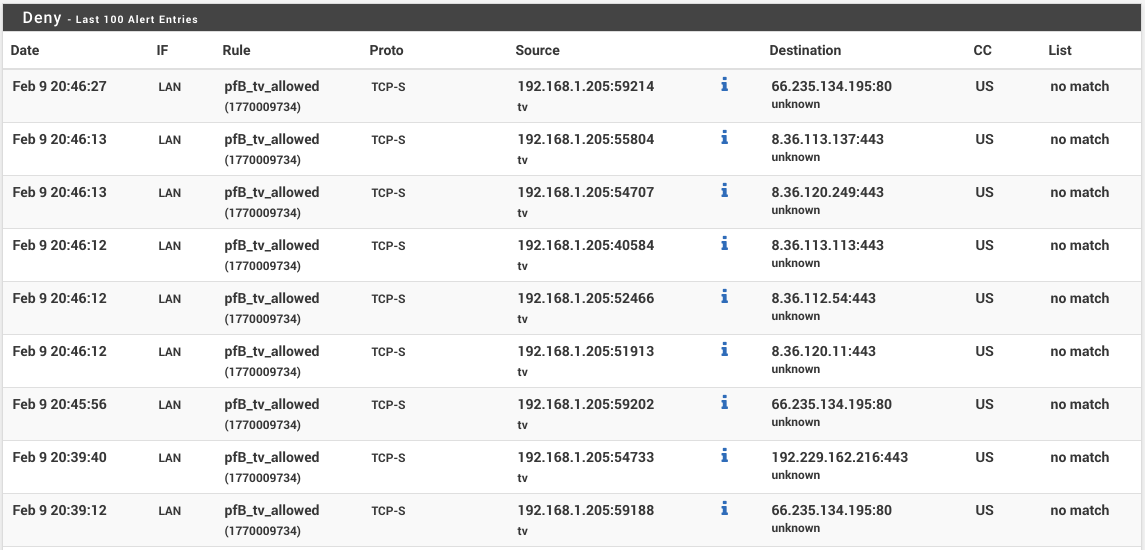
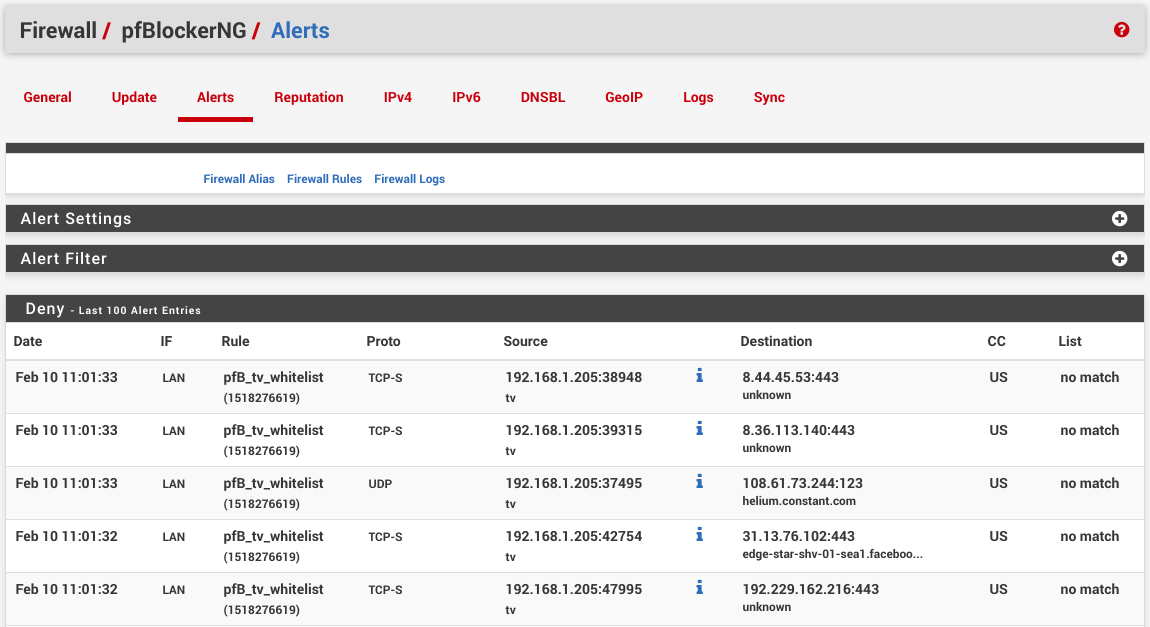
custom rules

diff --git a/posts/pfsensenvidia.html b/posts/pfsensenvidia.html
@@ -35,9 +35,9 @@ I also like to run <a href="https://www.pfsense.org/">pfSense</a> firewall, with
 out-of-the-box setup.
 </p>
 
-While checking firewall logs, and reviewing the usual scans for ports 23/22, from all over the world, 
-I decided to start blocking certain geolocations and noticed that every minute or so my smart TV was 
-pinging two IPs in China. 
+While checking firewall logs, and reviewing the usual scans for open ports 23/22 on my network, 
+I decided to start blocking certain geolocations. That's when I noticed that every minute or so, 
+my smart TV is sending data to two IPs in China. 
 </p>
 <p style="text-align: center">
         <a href="../assets/ping-to-china.png">
@@ -45,14 +45,14 @@ pinging two IPs in China.
         </a>
 </p>
         
-Launching adb, android debugger and digging deeper -- the app responsible for those pings was 
+Launching adb, android debugger and digging deeper -- the app responsible for those pings is 
 <a href="https://play.google.com/store/apps/details?id=com.waxrain.airplaydmr2&hl=en">com.waxrain.airplaydmr2</a>, 
 one of only 3 custom apps installed on the device.
 </p>
 
-This got me curious of what other traffic this android box is leaking. Among the 
+This got me curious of what other traffic this smart TV is leaking. Among the 
 usual Nvidia telemetry (even though it was explicitly disabled in the OS setttings), 
-there are Adobe, Facebook and other broadcasts.
+there is chatter to Adobe, Facebook and a bit of others.
 </p>
 <p style="text-align: center">
 <a href="../assets/other-unknown-traffic.png">
@@ -60,7 +60,7 @@ there are Adobe, Facebook and other broadcasts.
 </a>
 </p>
 
-With pfSense, we can easily quiet this chatter down a bit.
+With pfSense however, we can easily quiet this chatter down a bit.
 </p>
 
 <h3>0. Strategy</h3>
@@ -74,14 +74,14 @@ In order to block WAN traffic, we will use a pfBlockerNG to isolate
 <a href="https://bgp.he.net/search?search%5Bsearch%5D=google&commit=Search">google</a>, 
 <a href="https://bgp.he.net/search?search%5Bsearch%5D=amazon&commit=Search">amazon</a>, 
 and <a href="https://bgp.he.net/search?search%5Bsearch%5D=akamai&commit=Search">akamai</a> 
-(because that's where most amazon content is delivered from) using 
+(content delivery service for amazon video) using 
 <a href="https://en.wikipedia.org/wiki/Autonomous_system_(Internet)">ASN</a>s. 
 Upon feed updates, pfBlockerNG will resolve those ASNs to IP addresses which we can reference in 
 firewall rules.
 </p>
 
 <h3>1. pfBlockerNG alias</h3>
-Navigate to <b>Firewall / pfBlockerNG / IPv4</b>, click Add. Come up with name (tv_whitelist), set List 
+Navigate to <b>Firewall / pfBlockerNG / IPv4</b>, click Add. Come up with a cool name (tv_whitelist), set List 
 Action: Alias Native, which means pfBlockerNG will only create firewall alias (<b>Firewall / Aliases / URLs</b>), 
 and won't be adding any firewall rules. 
 In IPv4 Custom List tab, check Enable Domain/AS and paste following ASNs into Custom Address(es).
@@ -120,16 +120,16 @@ AS12222
 </pre>
 
 Once this alias is saved, run pfBlockerNG update and reload steps on <b>Firewall / pfBlockerNG / Update</b> page. 
-The log should state that a few hundred IPs have been added, about 19000 as of this writting.</p>
+The log should state that a few thousands of IPs have been added, about 19000 as of this writting.</p>
 
 <h3>2. Firewall rules</h3>
 With pfBlockerNG alias in place, on WAN firewall page (<b>Firewall / Rules / WAN</b>) add a new rule, 
 with Action: Block, set Destination to 
 the IP of smart TV, and set Source referencing pfBlockerNG alias (in my case pfB_tv_whitelist) and check Invert 
-match. Since this rule is blocking, Invert match will treat those IPs as a whitelist.</p>
+match option. Since this rule is blocking, Invert match will treat those IPs as a whitelist.</p>
 
-Similarly on LAN (<b>Firewall / Rules / LAN</b>), add a rule to Invert match on Destination, while listing 
-Source as Single host -- IP of the smart TV. It helps with testing and debugging to set Loging in Extra Options.</p>
+Similarly on LAN (<b>Firewall / Rules / LAN</b>), add a rule to Invert match on Destination, set Source as 
+Single host with IP of the smart TV. It helps with testing to enable Log in Extra Options tab.</p>
 
 If you still want your smart TV to communicate with other devices on LAN, like DNS/DHCP or debugging over WiFi, 
 then add another rule on LAN page, set Action to Pass, Source: smart TV IP, Destination: LAN net, 
@@ -141,8 +141,8 @@ and make sure it's above the blocking rule. In the end it should look something 
 </a>
 </p>
 
-<h3>Testing</h3>
-When all is done, and logging is enabled, you can see traffic being blocked on <b>Firewall / pfBlockerNG / Alerts</b> page.
+<h3>3. Testing</h3>
+When all is done, and logging is enabled, you can check for blocked traffic on <b>Firewall / pfBlockerNG / Alerts</b> page.
 </p>
 <p style="text-align: center">
 <a href="../assets/pfsense-block-results.png">

diff --git a/content/pfsensenvidia.html b/content/pfsensenvidia.html
@@ -4,9 +4,9 @@ I also like to run <a href="https://www.pfsense.org/">pfSense</a> firewall, with
 out-of-the-box setup.
 </p>
 
-While checking firewall logs, and reviewing the usual scans for ports 23/22, from all over the world, 
-I decided to start blocking certain geolocations and noticed that every minute or so my smart TV was 
-pinging two IPs in China. 
+While checking firewall logs, and reviewing the usual scans for open ports 23/22 on my network, 
+I decided to start blocking certain geolocations. That's when I noticed that every minute or so, 
+my smart TV is sending data to two IPs in China. 
 </p>
 <p style="text-align: center">
         <a href="../assets/ping-to-china.png">
@@ -14,14 +14,14 @@ pinging two IPs in China.
         </a>
 </p>
         
-Launching adb, android debugger and digging deeper -- the app responsible for those pings was 
+Launching adb, android debugger and digging deeper -- the app responsible for those pings is 
 <a href="https://play.google.com/store/apps/details?id=com.waxrain.airplaydmr2&hl=en">com.waxrain.airplaydmr2</a>, 
 one of only 3 custom apps installed on the device.
 </p>
 
-This got me curious of what other traffic this android box is leaking. Among the 
+This got me curious of what other traffic this smart TV is leaking. Among the 
 usual Nvidia telemetry (even though it was explicitly disabled in the OS setttings), 
-there are Adobe, Facebook and other broadcasts.
+there is chatter to Adobe, Facebook and a bit of others.
 </p>
 <p style="text-align: center">
 <a href="../assets/other-unknown-traffic.png">
@@ -29,7 +29,7 @@ there are Adobe, Facebook and other broadcasts.
 </a>
 </p>
 
-With pfSense, we can easily quiet this chatter down a bit.
+With pfSense however, we can easily quiet this chatter down a bit.
 </p>
 
 <h3>0. Strategy</h3>
@@ -43,14 +43,14 @@ In order to block WAN traffic, we will use a pfBlockerNG to isolate
 <a href="https://bgp.he.net/search?search%5Bsearch%5D=google&commit=Search">google</a>, 
 <a href="https://bgp.he.net/search?search%5Bsearch%5D=amazon&commit=Search">amazon</a>, 
 and <a href="https://bgp.he.net/search?search%5Bsearch%5D=akamai&commit=Search">akamai</a> 
-(because that's where most amazon content is delivered from) using 
+(content delivery service for amazon video) using 
 <a href="https://en.wikipedia.org/wiki/Autonomous_system_(Internet)">ASN</a>s. 
 Upon feed updates, pfBlockerNG will resolve those ASNs to IP addresses which we can reference in 
 firewall rules.
 </p>
 
 <h3>1. pfBlockerNG alias</h3>
-Navigate to <b>Firewall / pfBlockerNG / IPv4</b>, click Add. Come up with name (tv_whitelist), set List 
+Navigate to <b>Firewall / pfBlockerNG / IPv4</b>, click Add. Come up with a cool name (tv_whitelist), set List 
 Action: Alias Native, which means pfBlockerNG will only create firewall alias (<b>Firewall / Aliases / URLs</b>), 
 and won't be adding any firewall rules. 
 In IPv4 Custom List tab, check Enable Domain/AS and paste following ASNs into Custom Address(es).
@@ -89,16 +89,16 @@ AS12222
 </pre>
 
 Once this alias is saved, run pfBlockerNG update and reload steps on <b>Firewall / pfBlockerNG / Update</b> page. 
-The log should state that a few hundred IPs have been added, about 19000 as of this writting.</p>
+The log should state that a few thousands of IPs have been added, about 19000 as of this writting.</p>
 
 <h3>2. Firewall rules</h3>
 With pfBlockerNG alias in place, on WAN firewall page (<b>Firewall / Rules / WAN</b>) add a new rule, 
 with Action: Block, set Destination to 
 the IP of smart TV, and set Source referencing pfBlockerNG alias (in my case pfB_tv_whitelist) and check Invert 
-match. Since this rule is blocking, Invert match will treat those IPs as a whitelist.</p>
+match option. Since this rule is blocking, Invert match will treat those IPs as a whitelist.</p>
 
-Similarly on LAN (<b>Firewall / Rules / LAN</b>), add a rule to Invert match on Destination, while listing 
-Source as Single host -- IP of the smart TV. It helps with testing and debugging to set Loging in Extra Options.</p>
+Similarly on LAN (<b>Firewall / Rules / LAN</b>), add a rule to Invert match on Destination, set Source as 
+Single host with IP of the smart TV. It helps with testing to enable Log in Extra Options tab.</p>
 
 If you still want your smart TV to communicate with other devices on LAN, like DNS/DHCP or debugging over WiFi, 
 then add another rule on LAN page, set Action to Pass, Source: smart TV IP, Destination: LAN net, 
@@ -110,8 +110,8 @@ and make sure it's above the blocking rule. In the end it should look something 
 </a>
 </p>
 
-<h3>Testing</h3>
-When all is done, and logging is enabled, you can see traffic being blocked on <b>Firewall / pfBlockerNG / Alerts</b> page.
+<h3>3. Testing</h3>
+When all is done, and logging is enabled, you can check for blocked traffic on <b>Firewall / pfBlockerNG / Alerts</b> page.
 </p>
 <p style="text-align: center">
 <a href="../assets/pfsense-block-results.png">
